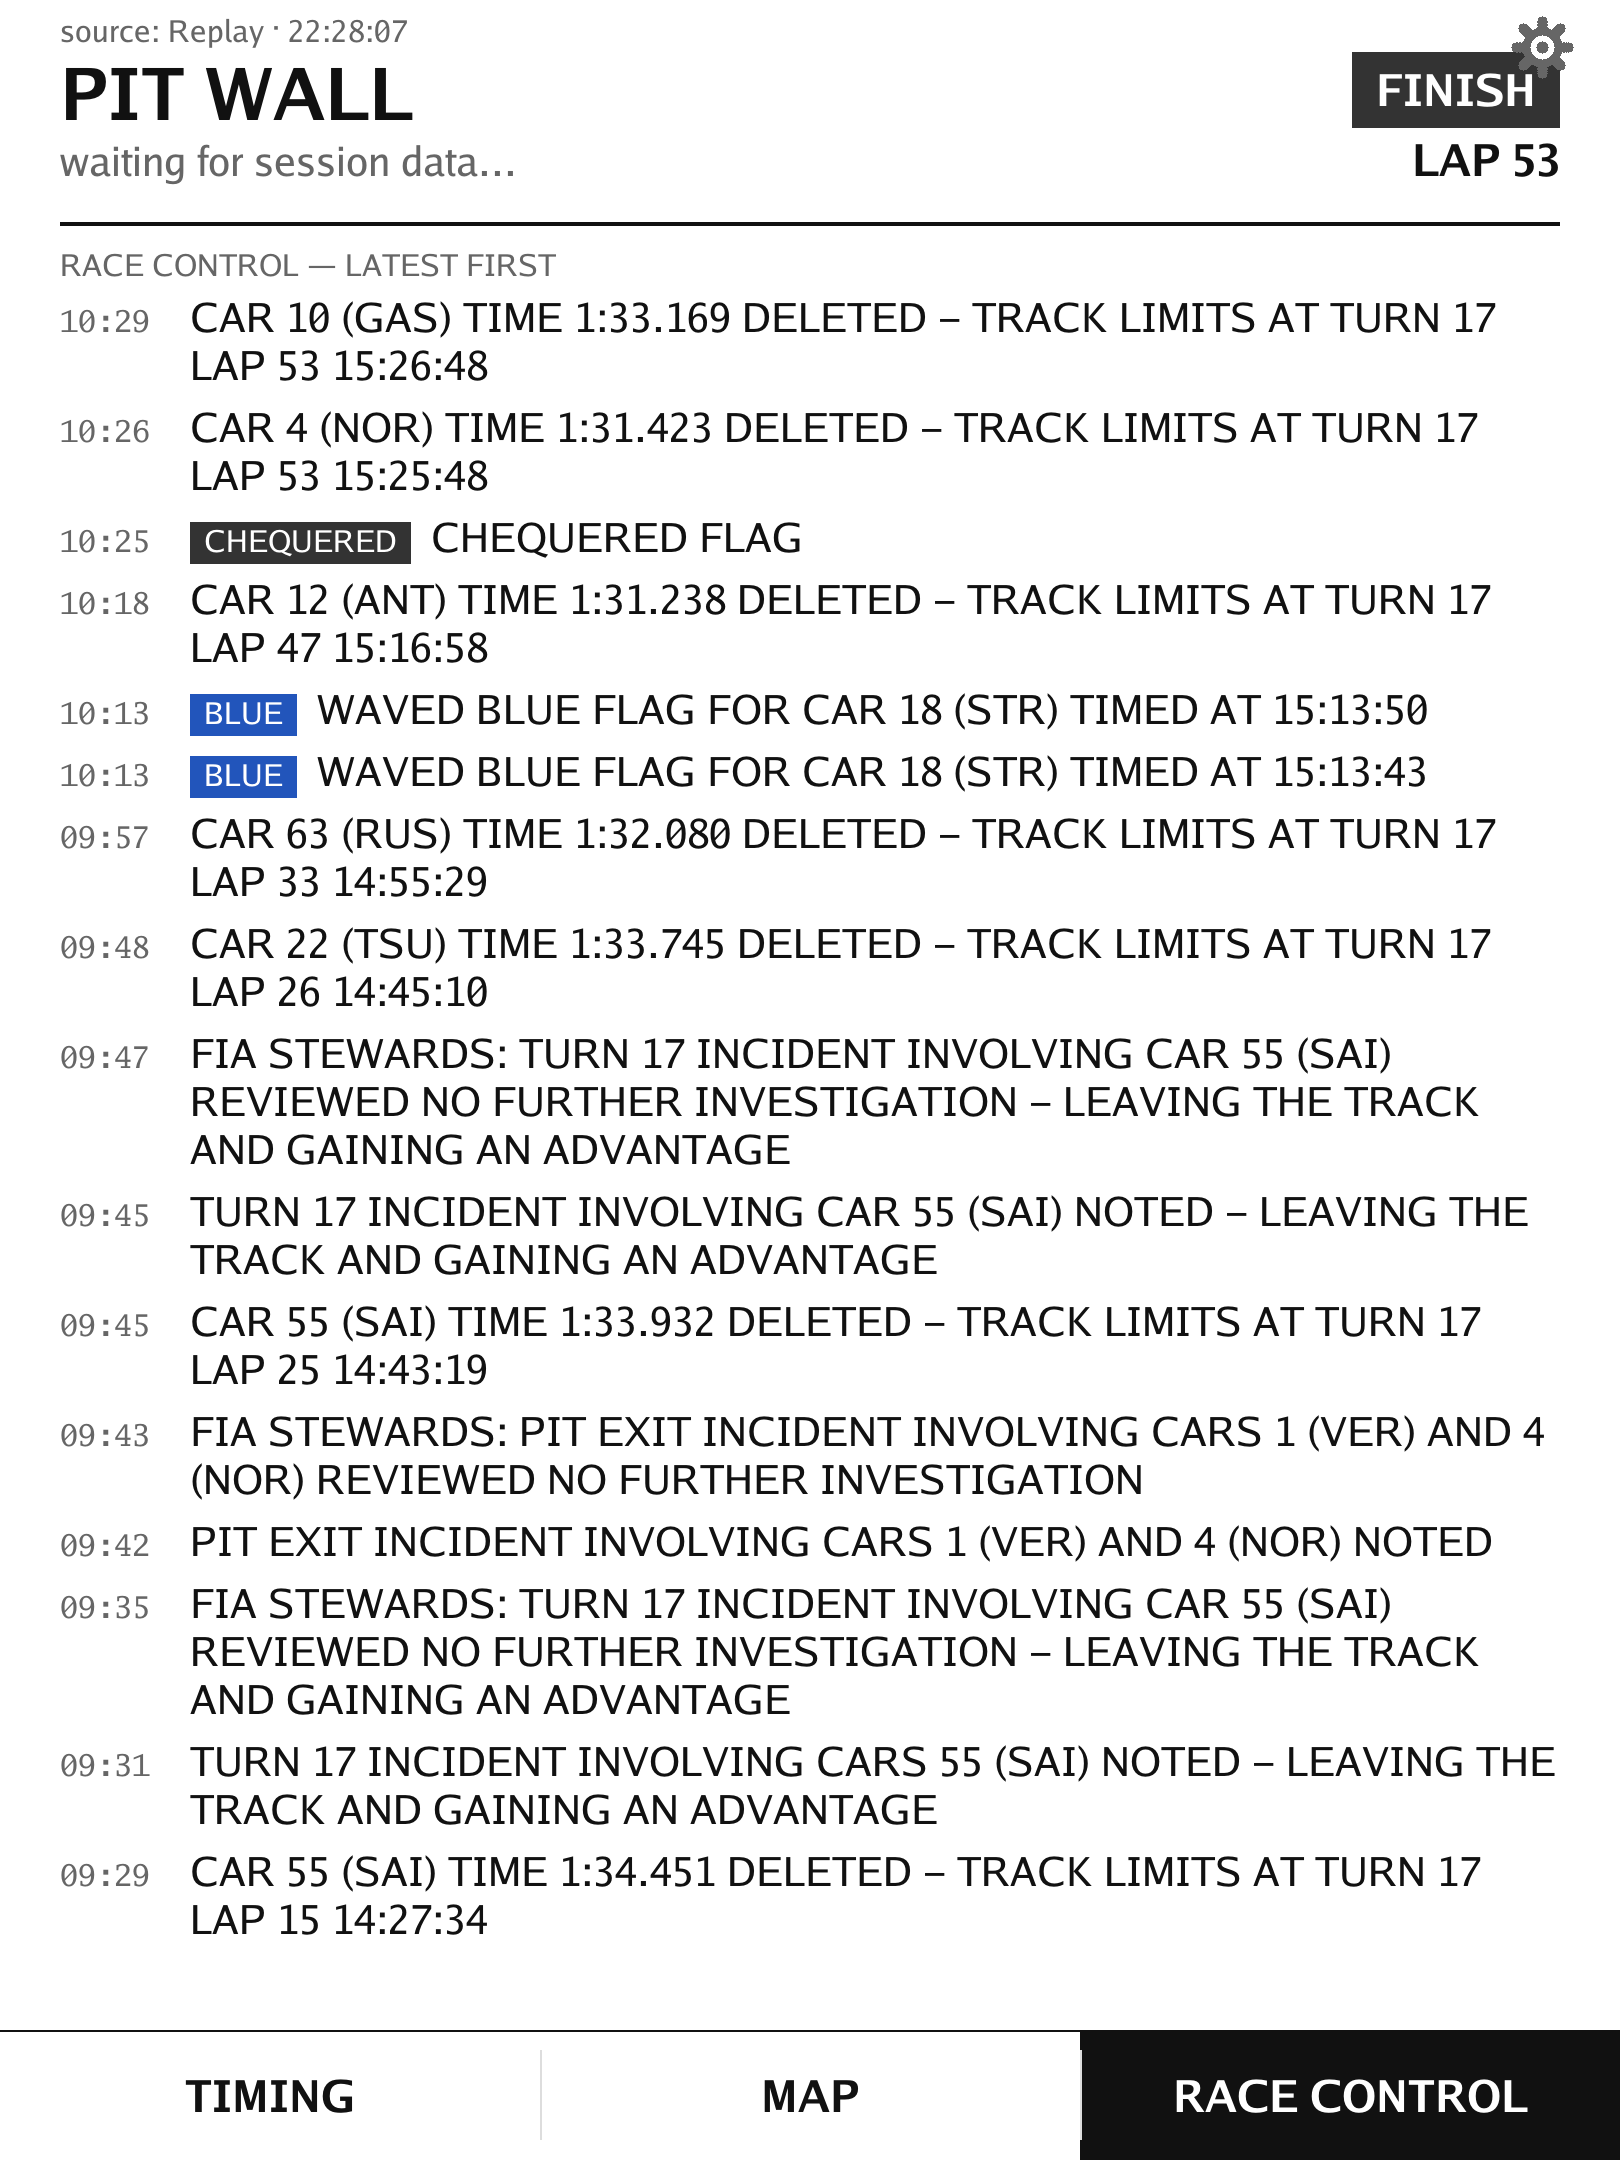
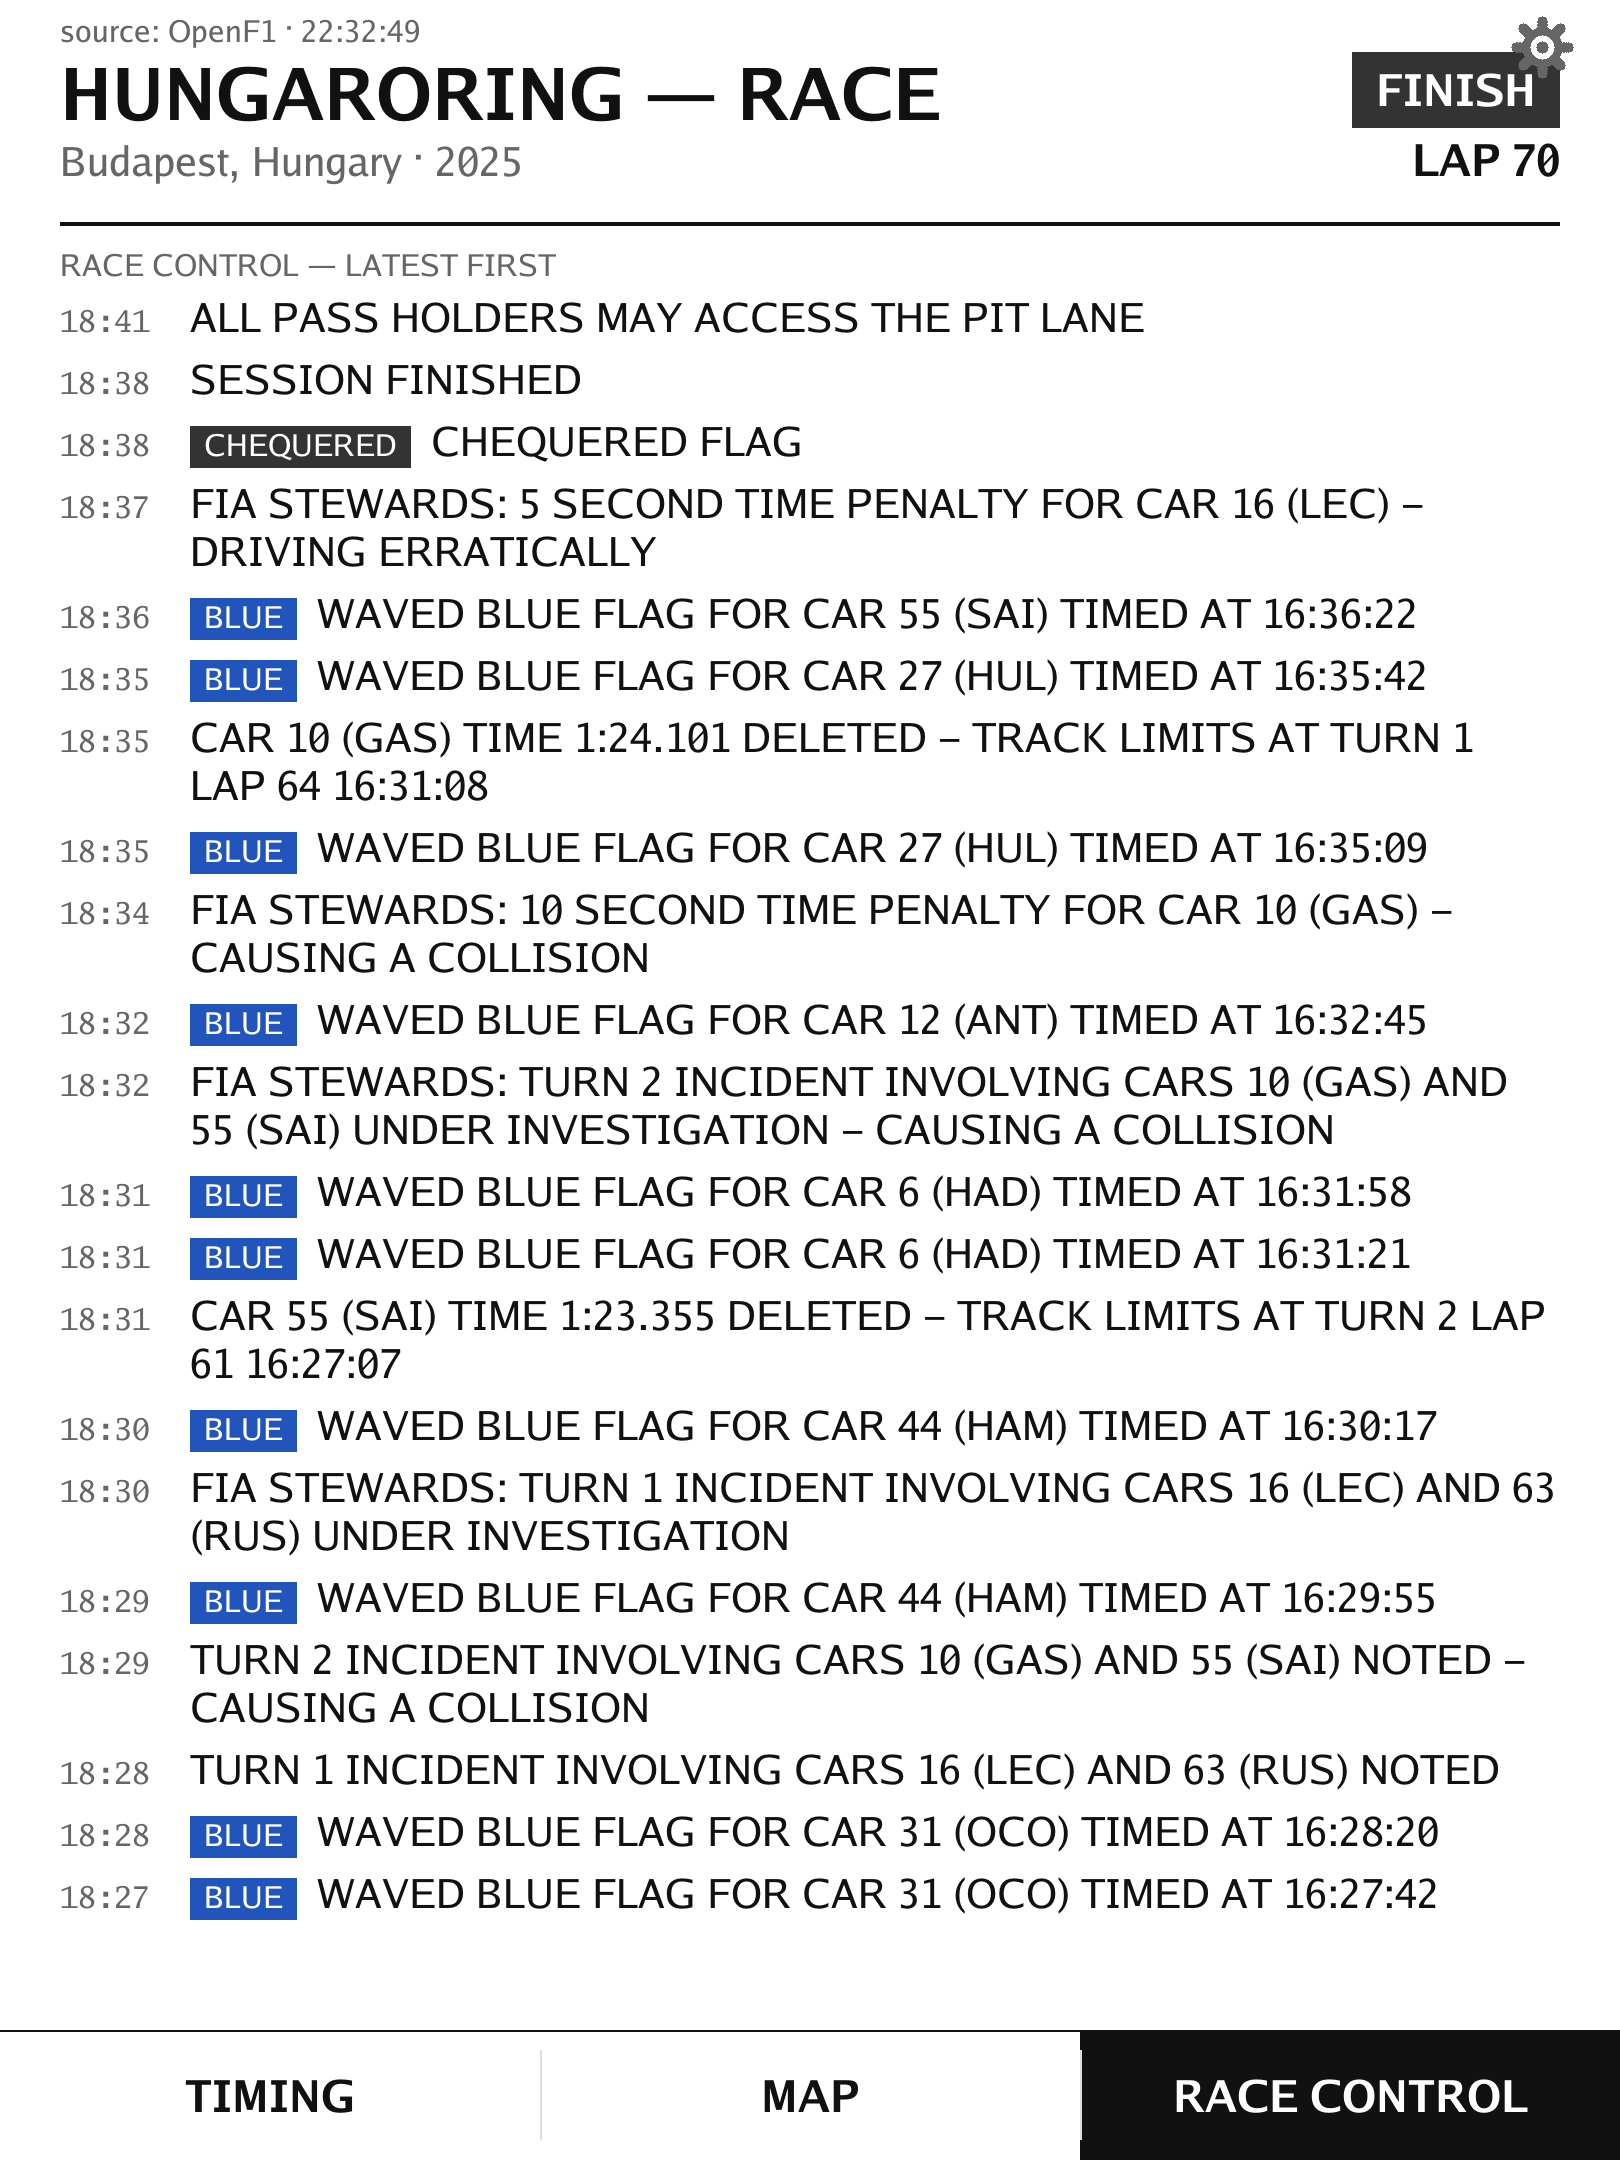
Use the 2025 Hungarian GP for the README screenshots
Rendered from OpenF1 session 9928 instead of the recorded testdata file,
so the header carries the real session ("HUNGARORING — RACE / Budapest,
Hungary · 2025") rather than the "PIT WALL / waiting for session data"
placeholder, and every driver resolves to an abbreviation instead of a
bare car number.

Claude-Session: https://claude.ai/code/session_01TqcVUCf1HvdRta8VFqKt9k

Changed region(s): [[0.0309, 0.1241, 0.9568, 0.8995], [0.0309, 0.0, 0.5864, 0.0931], [0.9259, 0.062, 0.9568, 0.0931]]

diff --git a/README.md b/README.md
@@ -11,9 +11,10 @@ Shows for the current session: positions, intervals and gaps, last lap times
 status flags, and race control messages.
 
 <p align="center">
-  <img src="docs/screenshot-timing.png" alt="Timing tab" width="45%">
-  <img src="docs/screenshot-racecontrol.png" alt="Race control tab" width="45%">
+  <img src="docs/screenshot-timing.png" alt="Timing tab — 2025 Hungarian GP" width="45%">
+  <img src="docs/screenshot-racecontrol.png" alt="Race control tab — 2025 Hungarian GP" width="45%">
 </p>
+<p align="center"><em>The timing and race control tabs, replaying the 2025 Hungarian Grand Prix.</em></p>
 
 ## Data sources
 
